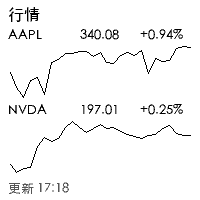
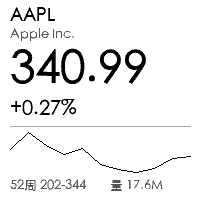
Phase 10: stock volume/52-week range, single-symbol detail view
providers/stocks.py adds volume and 52-week high/low — both already sit
in Yahoo's v8 chart meta, confirmed via a live fetch, no new endpoint
needed. Next-earnings date was the third item the plan asked for; tested
the endpoint that would provide it (v10/finance/quoteSummary) and it
returned 401 Unauthorized/Invalid Crumb without a session cookie. The
plan's own wording already conditioned this on "if reachable," so this
is skipped outright rather than pursued through auth workarounds.

Regarding "reference TradingView's widget layout": there's no way to
actually view those widgets from here, so this doesn't attempt a visual
copy. What the plan asks to carry over instead is the hierarchy
principle — one dominant number, everything else subordinate — which
doesn't require having seen the original to apply.

renderer/stocks.py gets render_detail() alongside the existing render():
one symbol filling the screen with a large price, change%, a full-width
sparkline, and the new volume/52-week line at the bottom. Config gets
stocks_view (overview/detail, default overview) wired through app.py's
_render_stocks() and exposed as a select in settings.html. Verified both
payloads through the real convert API (2500 / 3080 chars) and through
app.py's own preview endpoint switching the config value between calls,
confirming the wiring rather than just the renderer in isolation.

diff --git a/templates/settings.html b/templates/settings.html
@@ -26,6 +26,7 @@ input[type=text]{width:100%;box-sizing:border-box;border:1px solid #e3ded5;borde
 .warn{font-size:12px;color:#a15c00;background:#fff6e5;border-radius:8px;padding:8px 10px;margin-top:10px;line-height:1.5}
 .checkrow{display:flex;align-items:center;gap:8px;padding:6px 0;font-size:14px}
 input[type=number]{width:100%;box-sizing:border-box;border:1px solid #e3ded5;border-radius:12px;background:#fbfaf7;color:#1d1d1f;font-size:15px;padding:12px}
+select{width:100%;box-sizing:border-box;border:1px solid #e3ded5;border-radius:12px;background:#fbfaf7;color:#1d1d1f;font-size:15px;padding:12px}
 </style>
 </head>
 <body>
@@ -47,6 +48,13 @@ input[type=number]{width:100%;box-sizing:border-box;border:1px solid #e3ded5;bor
   <div class="field">
     <label>股票清单（逗号分隔）</label>
     <input type="text" id="stock_symbols">
+  </div>
+  <div class="field">
+    <label>行情版式</label>
+    <select id="stocks_view">
+      <option value="overview">概览（多只，各配一条分时线）</option>
+      <option value="detail">详情（清单第一只占满整屏）</option>
+    </select>
   </div>
   <button class="btn" onclick="saveConfig()">保存</button>
   <div id="msg"></div>
@@ -85,6 +93,7 @@ async function loadConfig(){
   document.getElementById('device_mac').value = cfg.device_mac || '';
   document.getElementById('weather_city').value = cfg.weather_city || '';
   document.getElementById('stock_symbols').value = (cfg.stock_symbols || []).join(', ');
+  document.getElementById('stocks_view').value = cfg.stocks_view || 'overview';
   document.getElementById('auto_push_enabled').checked = !!cfg.auto_push_enabled;
   document.getElementById('auto_push_interval_minutes').value = cfg.auto_push_interval_minutes || 10;
   const pages = new Set(cfg.auto_push_pages || []);
@@ -99,6 +108,7 @@ async function saveConfig(){
     weather_city: document.getElementById('weather_city').value.trim(),
     stock_symbols: document.getElementById('stock_symbols').value
       .split(',').map(s => s.trim()).filter(Boolean),
+    stocks_view: document.getElementById('stocks_view').value,
     auto_push_enabled: document.getElementById('auto_push_enabled').checked,
     auto_push_interval_minutes: Math.max(5, parseInt(document.getElementById('auto_push_interval_minutes').value) || 10),
     auto_push_pages: pages,

diff --git a/renderer/stocks.py b/renderer/stocks.py
@@ -1,17 +1,20 @@
-"""行情页渲染。版式规格见 docs/PLAN.md Phase 4 步骤 3。
+"""行情页渲染，两种版式（docs/PLAN-v2.md Phase 10）：
 
-涨跌幅一律用纯黑（灰度 85 在小字号下对比度不足，已在 PLAN.md 里明确禁止）。
+- `render`（多只概览）：每只股票一行 + 自己的分时线，按数量自适应空间
+- `render_detail`（单只详情）：一只股票占满整屏，大号现价 + 走势线 +
+  成交量/52周区间。默认取股票清单第一只。
 
-每只股票都配一条自己的分时走势线（而不是只给清单里第一只画线），
-按股票数量自适应分配竖直空间——清单短的时候每条线画得更大，不会
-留出一大片空白；清单变长时自动收缩。最多显示 4 只，超过 4 只的
-分页显示尚未实现（PLAN.md 提到但本期未做，超出部分直接截断）。
+涨跌幅一律用纯黑（灰度 85 在小字号下对比度不足，PLAN.md 已禁止）。
+
+关于"参考 TradingView widget"：拿不到那些 widget 实际截图，做不了视觉
+复刻。这两版遵循的是信息层级原则——一个主导数字，其余全部次级——而不是
+具体样式，这条原则不需要看过原版设计也能用。
 """
 from datetime import datetime
 
 from PIL import ImageDraw
 
-from renderer.base import BLACK, DARK_GRAY, WHITE, font, gray, new_canvas
+from renderer.base import BLACK, DARK_GRAY, WHITE, font, gray, hline, new_canvas
 
 MAX_STOCKS = 4
 TITLE_Y = 6
@@ -23,18 +26,29 @@ HEADER_LINE_H = 18
 BLOCK_GAP = 6
 
 
-def _draw_sparkline(draw: ImageDraw.ImageDraw, closes, y0: int, y1: int):
+def _draw_sparkline(draw: ImageDraw.ImageDraw, closes, y0: int, y1: int, x0=CHART_X0, x1=CHART_X1):
     if len(closes) < 2 or y1 - y0 < 6:
         return
     lo, hi = min(closes), max(closes)
     span = (hi - lo) or 1.0
     n = len(closes)
-    xs = [CHART_X0 + i * (CHART_X1 - CHART_X0) / (n - 1) for i in range(n)]
+    xs = [x0 + i * (x1 - x0) / (n - 1) for i in range(n)]
     ys = [y1 - (c - lo) / span * (y1 - y0) for c in closes]
     draw.line(list(zip(xs, ys)), fill=gray(BLACK), width=1)
 
 
+def _fmt_volume(v):
+    if v is None:
+        return "—"
+    if v >= 1_000_000:
+        return f"{v/1_000_000:.1f}M"
+    if v >= 1_000:
+        return f"{v/1_000:.0f}K"
+    return str(v)
+
+
 def render(quotes: list):
+    """多只概览：每只一行 + 各自的分时线。"""
     img = new_canvas(bg=WHITE)
     draw = ImageDraw.Draw(img)
 
@@ -66,5 +80,34 @@ def render(quotes: list):
         (8, FOOTER_Y), f"更新 {datetime.now().strftime('%H:%M')}",
         font=font(13), fill=gray(DARK_GRAY),
     )
+
+    return img
+
+
+def render_detail(quote: dict):
+    """单只详情：一只股票占满整屏。"""
+    img = new_canvas(bg=WHITE)
+    draw = ImageDraw.Draw(img)
+
+    draw.text((10, 6), quote["symbol"], font=font(18), fill=gray(BLACK))
+    name = quote.get("name") or ""
+    if name and name != quote["symbol"]:
+        draw.text((10, 27), name[:16], font=font(13), fill=gray(DARK_GRAY))
+
+    draw.text((10, 46), f"{quote['price']:.2f}", font=font(46), fill=gray(BLACK))
+
+    sign = "+" if quote["change_pct"] >= 0 else ""
+    draw.text((10, 98), f"{sign}{quote['change_pct']:.2f}%", font=font(20), fill=gray(BLACK))
+
+    hline(draw, 126)
+
+    if quote["closes"]:
+        _draw_sparkline(draw, quote["closes"], 132, 172, x0=10, x1=190)
+
+    w52_lo, w52_hi = quote.get("week52_low"), quote.get("week52_high")
+    if w52_lo is not None and w52_hi is not None:
+        draw.text((10, 178), f"52周 {w52_lo:.0f}-{w52_hi:.0f}", font=font(13), fill=gray(DARK_GRAY))
+    vol = _fmt_volume(quote.get("volume"))
+    draw.text((110, 178), f"量 {vol}", font=font(13), fill=gray(DARK_GRAY))
 
     return img

diff --git a/app.py b/app.py
@@ -23,12 +23,20 @@ log = logging.getLogger("pocket-prophet")
 
 app = Flask(__name__)
 
+def _render_stocks(cfg: dict):
+    """行情页有两种版式（Phase 10），在设置页里选：概览（多只）或详情（单只）。"""
+    quotes = stocks_provider.fetch(cfg["stock_symbols"])
+    if cfg.get("stocks_view") == "detail" and quotes:
+        return stocks.render_detail(quotes[0])
+    return stocks.render(quotes)
+
+
 # 配置驱动的内容页：page key -> (中文名, cfg -> PIL.Image)。摇卦不在这里——
 # 它是每次随机的一次性动作，"预览不推送"这个概念对它不适用，走独立的
 # /api/divine（见下方，Phase 2 已验证过真机）。
 PAGES = {
     "weather": ("天气", lambda cfg: weather.render(weather_provider.fetch(cfg["weather_city"]))),
-    "stocks": ("行情", lambda cfg: stocks.render(stocks_provider.fetch(cfg["stock_symbols"]))),
+    "stocks": ("行情", _render_stocks),
     "news": ("要闻", lambda cfg: news.render(news_provider.fetch())),
     "usage": ("用量", lambda cfg: usage.render(ccusage.summarize())),
     "qimen": ("奇门遁甲", lambda cfg: qimen.render(qimen_provider.cast())),
@@ -76,7 +84,7 @@ def api_config():
 
     body = request.get_json(force=True, silent=True) or {}
     allowed = {
-        "device_ip", "device_mac", "weather_city", "stock_symbols", "news_sources", "enabled_pages",
+        "device_ip", "device_mac", "weather_city", "stock_symbols", "stocks_view", "news_sources", "enabled_pages",
         "auto_push_enabled", "auto_push_interval_minutes", "auto_push_pages",
     }
     updates = {k: v for k, v in body.items() if k in allowed}

diff --git a/providers/stocks.py b/providers/stocks.py
@@ -1,6 +1,10 @@
 """行情数据源：Yahoo Finance 公开 chart 接口，不需要 API key。
 
 必须带浏览器 User-Agent，否则会被拒绝（已实测：不带 UA 返回 429）。
+
+下次财报日期本想一并加（docs/PLAN-v2.md Phase 10），但那需要
+v10/finance/quoteSummary 接口，实测无认证访问返回 401 Unauthorized/
+Invalid Crumb——不去处理认证绕过，按计划里"若接口可得"的但书直接跳过。
 """
 import requests
 
@@ -29,9 +33,13 @@ def _fetch_one(symbol: str) -> dict:
 
     return {
         "symbol": symbol,
+        "name": meta.get("shortName", symbol),
         "price": price,
         "change_pct": change_pct,
         "closes": closes,
+        "volume": meta.get("regularMarketVolume"),
+        "week52_high": meta.get("fiftyTwoWeekHigh"),
+        "week52_low": meta.get("fiftyTwoWeekLow"),
     }
 
 

diff --git a/config.py b/config.py
@@ -14,6 +14,7 @@ DEFAULTS = {
     "enabled_pages": ["divination"],  # Phase 4/5 陆续加入 weather/stocks/news/usage
     "weather_city": "深圳",
     "stock_symbols": ["AAPL", "NVDA"],  # 用户 2026-07-28 确认的初始清单
+    "stocks_view": "overview",  # "overview"(多只概览) 或 "detail"(单只详情，取清单第一只)
     "news_sources": [],  # Phase 4 实现 providers/news.py 时补默认源
     # Phase 7 自动推送（停驻模式，见 docs/PHASE0_FINDINGS.md）。
     # 默认关闭——必须由用户显式布防，理由见 ARCHITECTURE.md §3.1：

diff --git a/README.md b/README.md
@@ -39,7 +39,7 @@ python3 app.py
 |---|---|
 | 🔮 **摇卦** | 三枚铜钱法起六爻，服务端用密码学安全随机数（`secrets`，不是 `random`）真实抛掷。给出本卦、变卦（如有动爻）、和一句判断 |
 | 🌤 **天气** | 数据源 [wttr.in](https://wttr.in)，城市在设置页里改。图标+温度并排，另有体感温度和降水概率。图标是纯 PIL 几何图形（不用外部图标字体，位图在 200×200 下容易糊），覆盖晴/多云/阴/雨/雪/雾/雷 7 类 |
-| 📈 **行情** | 数据源 Yahoo Finance 公开接口，股票清单在设置页里改，每只股票配一条当日分时走势线 |
+| 📈 **行情** | 数据源 Yahoo Finance 公开接口，股票清单在设置页里改。两种版式：概览（多只，各配一条分时线）或详情（清单第一只占满整屏，含成交量/52周高低），设置页切换 |
 | 📰 **要闻** | 数据源今日头条热榜 |
 | 📊 **Token 用量** | 解析本机 Claude Code 的本地转录文件，展示今日 token 消耗、近 5 小时窗口、按模型拆分、近似成本估算。**这不是官方订阅额度百分比**——那个数据本地拿不到，这里给的是本地转录统计出的用量，别混着看 |
 | 🔯 **奇门遁甲** | 按当前时间起盘（节气定局/阴阳遁/值符值使/三盘，复用同一作者 mingli-skill 项目的排盘引擎），3×3 九宫格显示门/星/干支，粗框标出值符宫 |
@@ -115,7 +115,8 @@ pocket-prophet-dashboard/
 - ✅ Phase 7 自动推送——布防开关、周期轮换、默认关闭，见上方「自动推送」
 - ✅ Phase 8 奇门遁甲
 - ✅ Phase 9 天气图标
-- 🔜 Phase 10–12（`docs/PLAN-v2.md`）：行情增强、要闻自定义源、用量页重设计
+- ✅ Phase 10 行情增强
+- 🔜 Phase 11–12（`docs/PLAN-v2.md`）：要闻自定义源、用量页重设计
 
 ## 定位：扩展，不是破解
 

diff --git a/docs/PLAN-v2.md b/docs/PLAN-v2.md
@@ -4,7 +4,7 @@
 >
 > 所有"已确认事实"的实测依据在 `docs/ARCHITECTURE.md`，不在此重复。
 
-> **2026-07-29 状态更新**：Phase 6-9 已完成并推送。Phase 9（天气图标）：7 种极简几何图标（晴/多云/阴/雨/雪/雾/雷）逐个走真实转换 API 验证过轮廓清晰；踩过一个坑——"多云"最初用同心叠放+局部描边画法糊成两个空心圆圈，"雷"的黑色闪电画在黑色云上完全不可见，都已改用不重叠构图/白色镂空重画；覆盖 wttr.in 的 45 个天气代码，未匹配兜底为"阴"（最保守，不会误报晴/雨）。Phase 10–12 待做，按下方顺序推进，随时可以停。
+> **2026-07-29 状态更新**：Phase 6-10 已完成并推送。Phase 9（天气图标）：7 种极简几何图标（晴/多云/阴/雨/雪/雾/雷）逐个走真实转换 API 验证过轮廓清晰；踩过一个坑——"多云"最初用同心叠放+局部描边画法糊成两个空心圆圈，"雷"的黑色闪电画在黑色云上完全不可见，都已改用不重叠构图/白色镂空重画；覆盖 wttr.in 的 45 个天气代码，未匹配兜底为"阴"（最保守，不会误报晴/雨）。Phase 10（行情增强）：成交量/52周高低已加（Yahoo v8 chart 接口本来就有）；下次财报日期需要 `v10/finance/quoteSummary`，实测无认证返回 401 Invalid Crumb，按计划的但书直接跳过，不绕认证；新增单只详情版式，设置页可选概览/详情。Phase 11–12 待做。
 
 ---
 
